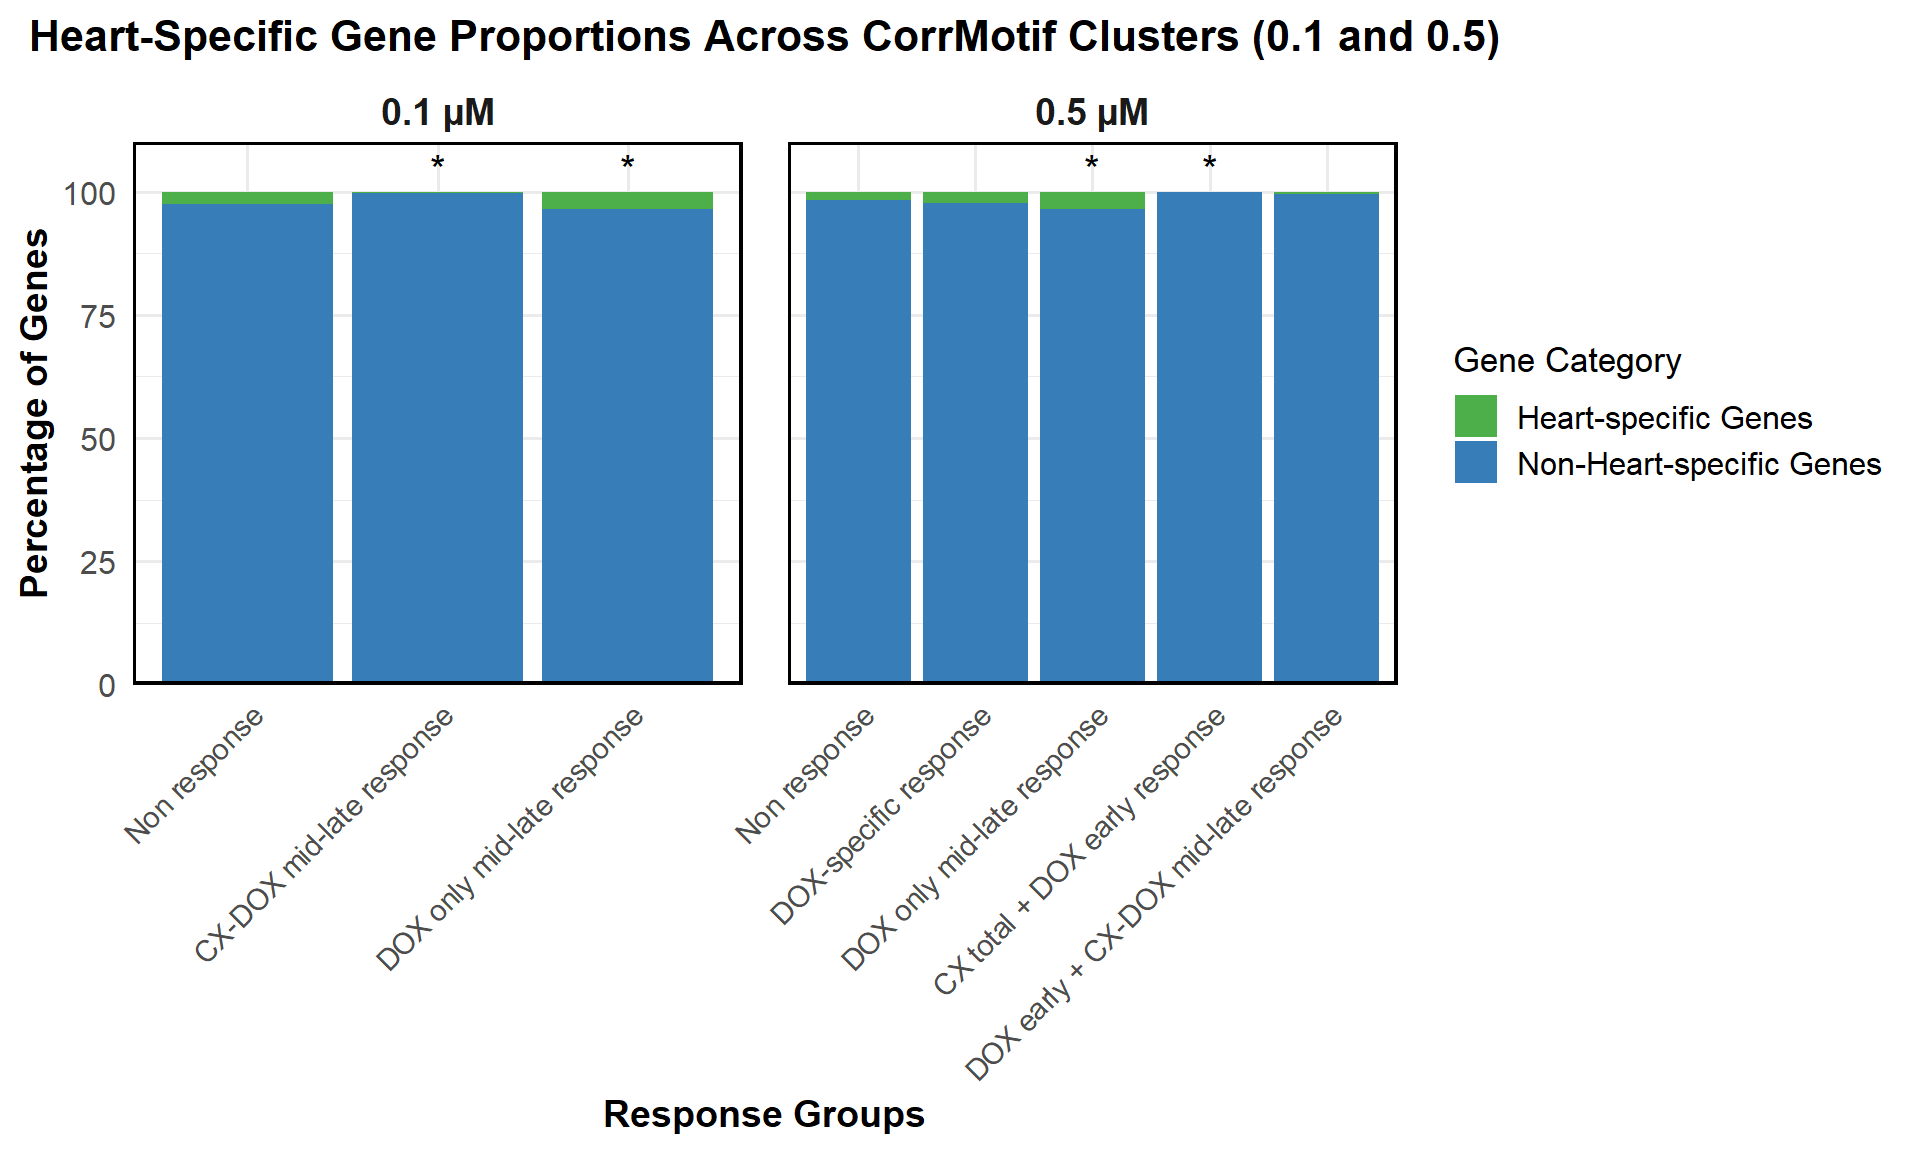
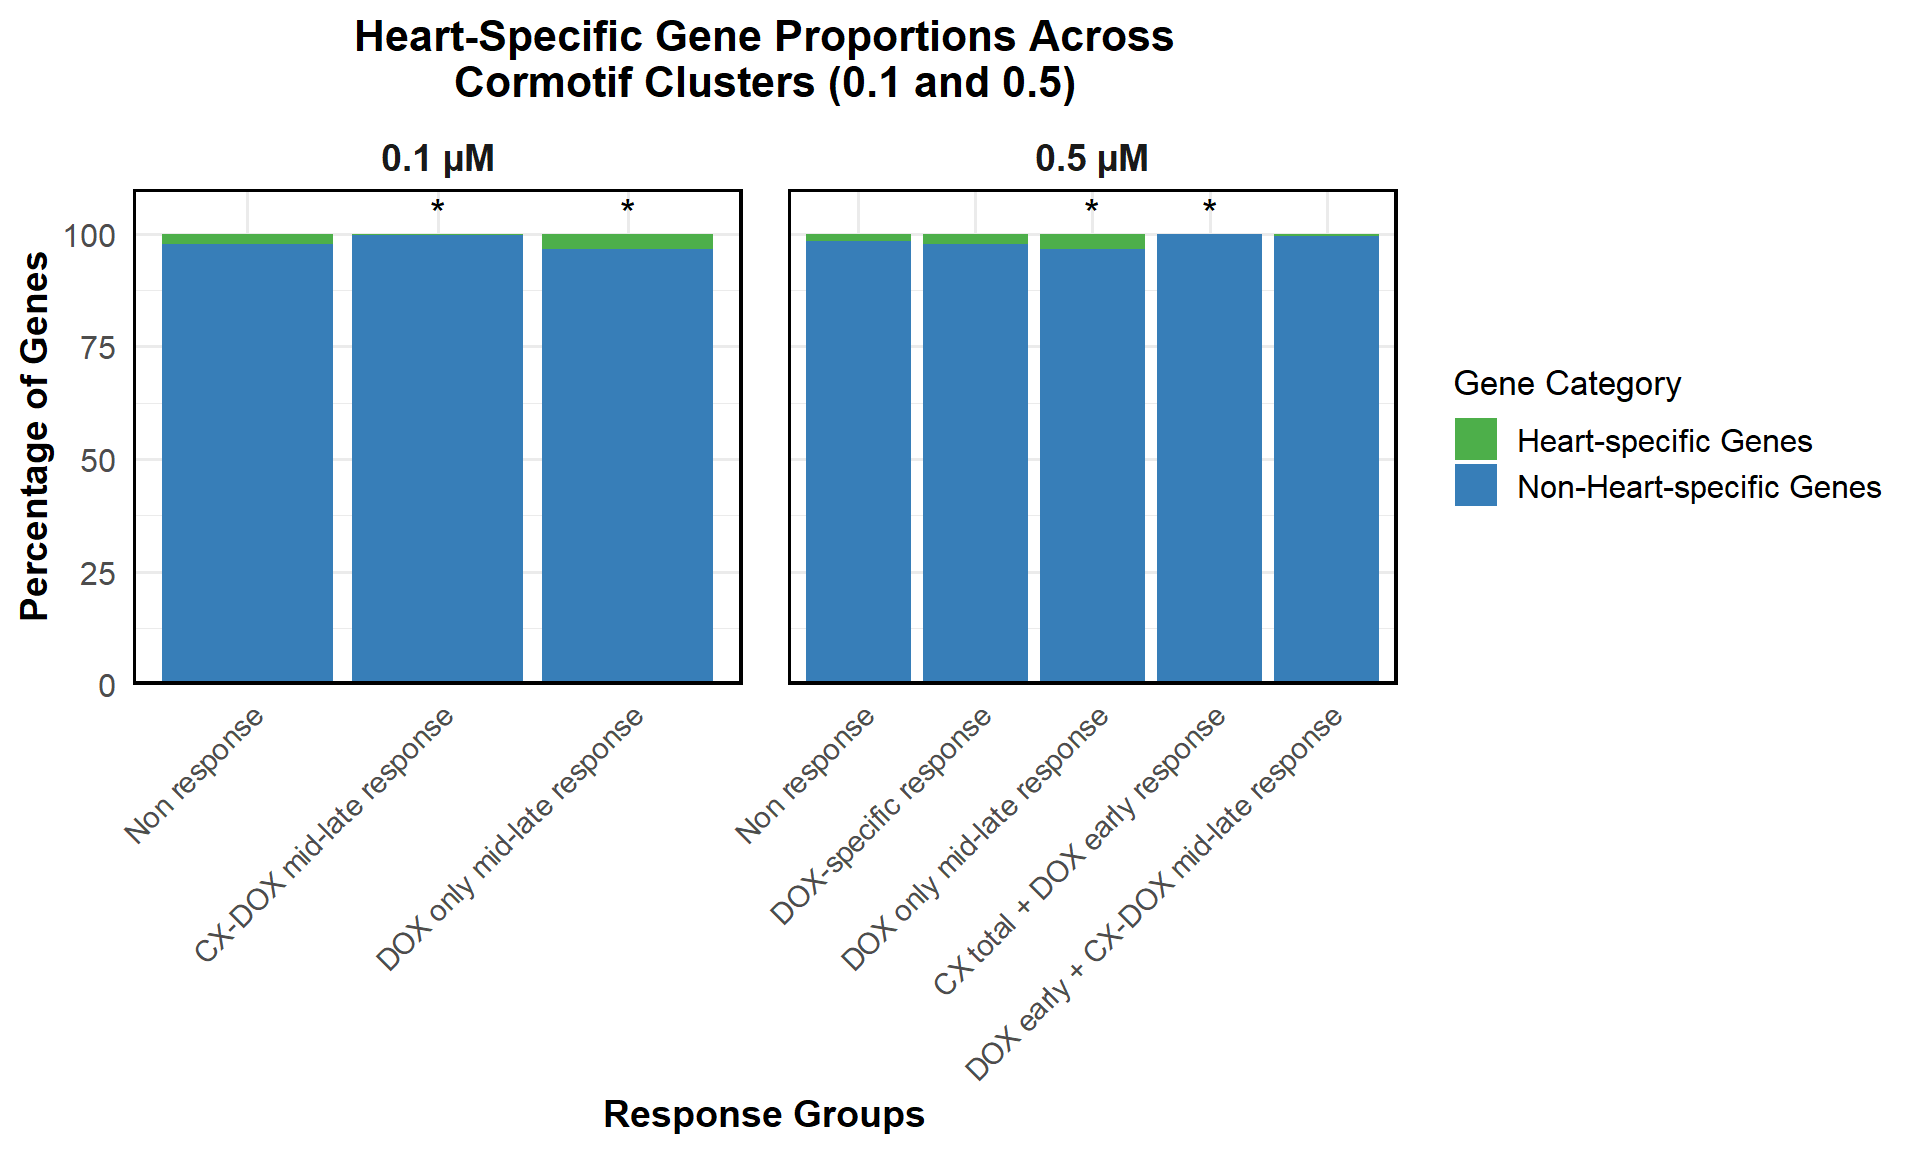
Commit

Changed region(s): [[0.0, 0.0, 0.7812, 0.5312], [0.75, 0.2812, 1.0, 0.4375]]

diff --git a/docs/Corrmotif_Conc.html b/docs/Corrmotif_Conc.html
@@ -512,15 +512,15 @@ project makes it easier to run your code on other machines.</p>
 <div class="panel panel-default">
 <div class="panel-heading">
 <p class="panel-title">
-<a data-toggle="collapse" data-parent="#workflowr-checks" href="#strongRepositoryversionstrongahrefhttpsgithubcomsayanpaul01CX5461Projecttreed8a2f25dc1beb5fef19f7a7a03802eb5999393cdtargetblankd8a2f25a">
+<a data-toggle="collapse" data-parent="#workflowr-checks" href="#strongRepositoryversionstrongahrefhttpsgithubcomsayanpaul01CX5461Projecttree6ef5f61785e28f0c6385c185a7d54db2620ea914targetblank6ef5f61a">
 <span class="glyphicon glyphicon-ok text-success"
 aria-hidden="true"></span> <strong>Repository version:</strong>
-<a href="https://github.com/sayanpaul01/CX5461_Project/tree/d8a2f25dc1beb5fef19f7a7a03802eb5999393cd" target="_blank">d8a2f25</a>
+<a href="https://github.com/sayanpaul01/CX5461_Project/tree/6ef5f61785e28f0c6385c185a7d54db2620ea914" target="_blank">6ef5f61</a>
 </a>
 </p>
 </div>
 <div
[2 lines of base64/hex data omitted]
 class="panel-collapse collapse">
 <div class="panel-body">
 <p>
@@ -530,7 +530,7 @@ reproducibility.
 </p>
 <p>
 The results in this page were generated with repository version
-<a href="https://github.com/sayanpaul01/CX5461_Project/tree/d8a2f25dc1beb5fef19f7a7a03802eb5999393cd" target="_blank">d8a2f25</a>.
+<a href="https://github.com/sayanpaul01/CX5461_Project/tree/6ef5f61785e28f0c6385c185a7d54db2620ea914" target="_blank">6ef5f61</a>.
 See the <em>Past versions</em> tab to see a history of the changes made
 to the R Markdown and HTML files.
 </p>
@@ -622,6 +622,40 @@ Message
 </tr>
 </thead>
 <tbody>
+<tr>
+<td>
+Rmd
+</td>
+<td>
+<a href="https://github.com/sayanpaul01/CX5461_Project/blob/6ef5f61785e28f0c6385c185a7d54db2620ea914/analysis/Corrmotif_Conc.Rmd" target="_blank">6ef5f61</a>
+</td>
+<td>
+sayanpaul01
+</td>
+<td>
+2025-04-14
+</td>
+<td>
+Commit
+</td>
+</tr>
+<tr>
+<td>
+html
+</td>
+<td>
+<a href="https://rawcdn.githack.com/sayanpaul01/CX5461_Project/6ef5f61785e28f0c6385c185a7d54db2620ea914/docs/Corrmotif_Conc.html" target="_blank">6ef5f61</a>
+</td>
+<td>
+sayanpaul01
+</td>
+<td>
+2025-04-14
+</td>
+<td>
+Commit
+</td>
+</tr>
 <tr>
 <td>
 Rmd
@@ -5079,7 +5113,7 @@ ggplot(proportion_data, aes(x = Response_Group, y = Percentage, fill = Category)
   )) +
   scale_y_continuous(limits = c(0, 110), expand = c(0, 0)) +  # allow space for stars and border
   labs(
-    title = &quot;Heart-Specific Gene Proportions Across CorrMotif Clusters (0.1 and 0.5)&quot;,
+    title = &quot;Heart-Specific Gene Proportions Across\nCormotif Clusters (0.1 and 0.5)&quot;,
     x = &quot;Response Groups&quot;,
     y = &quot;Percentage of Genes&quot;,
     fill = &quot;Gene Category&quot;
@@ -5098,6 +5132,43 @@ ggplot(proportion_data, aes(x = Response_Group, y = Percentage, fill = Category)
     panel.spacing = unit(1.2, &quot;lines&quot;)  # adds vertical spacing to avoid cramped look
   )</code></pre>
 <p><img src="figure/Corrmotif_Conc.Rmd/prop%20heart%20comb-1.png" width="960" style="display: block; margin: auto;" /></p>
+<p>
+<button type="button" class="btn btn-default btn-xs btn-workflowr btn-workflowr-fig" data-toggle="collapse" data-target="#fig-no-spaces-prop-heart-comb-1">
+Past versions of "prop heart comb-1.png"
+</button>
+</p>
+<div id="fig-no-spaces-prop-heart-comb-1" class="collapse">
+<div class="table-responsive">
+<table class="table table-condensed table-hover">
+<thead>
+<tr>
+<th>
+Version
+</th>
+<th>
+Author
+</th>
+<th>
+Date
+</th>
+</tr>
+</thead>
+<tbody>
+<tr>
+<td>
+<a href="https://github.com/sayanpaul01/CX5461_Project/blob/6ef5f61785e28f0c6385c185a7d54db2620ea914/docs/figure/Corrmotif_Conc.Rmd/prop heart comb-1.png" target="_blank">6ef5f61</a>
+</td>
+<td>
+sayanpaul01
+</td>
+<td>
+2025-04-14
+</td>
+</tr>
+</tbody>
+</table>
+</div>
+</div>
 </div>
 <div id="corr-motif-boxplots" class="section level2">
 <h2><strong>📌 Corr-motif Boxplots</strong></h2>
